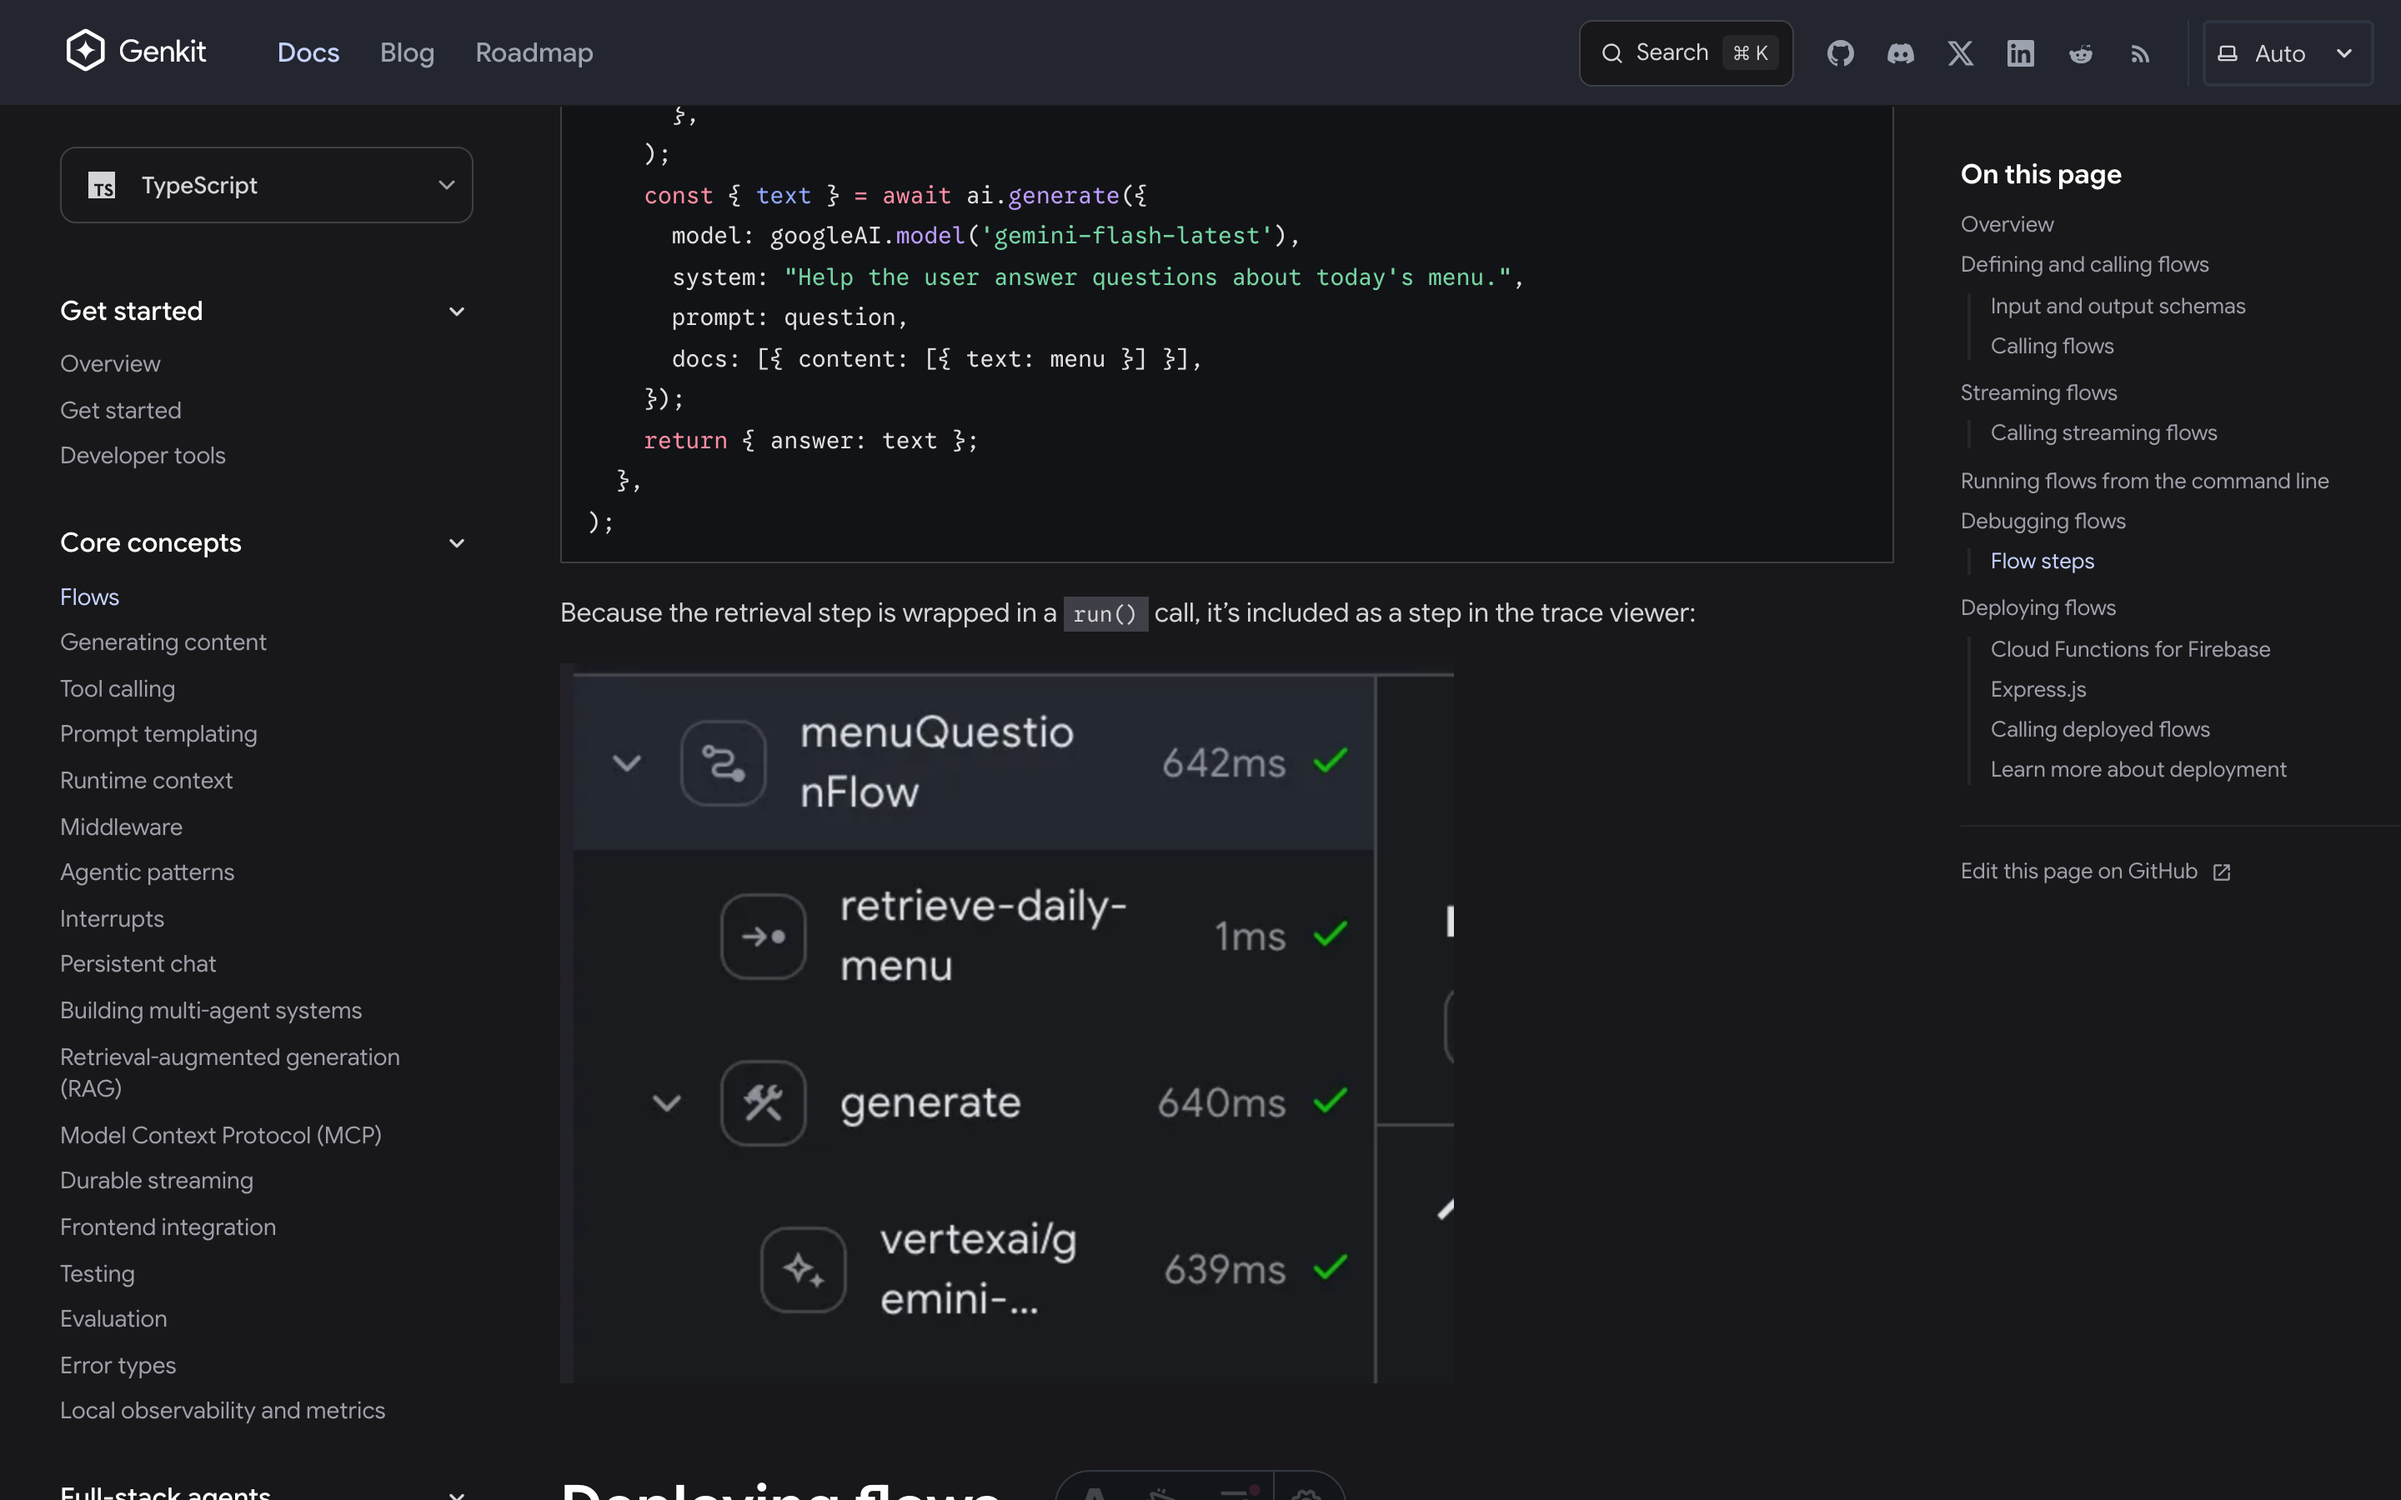
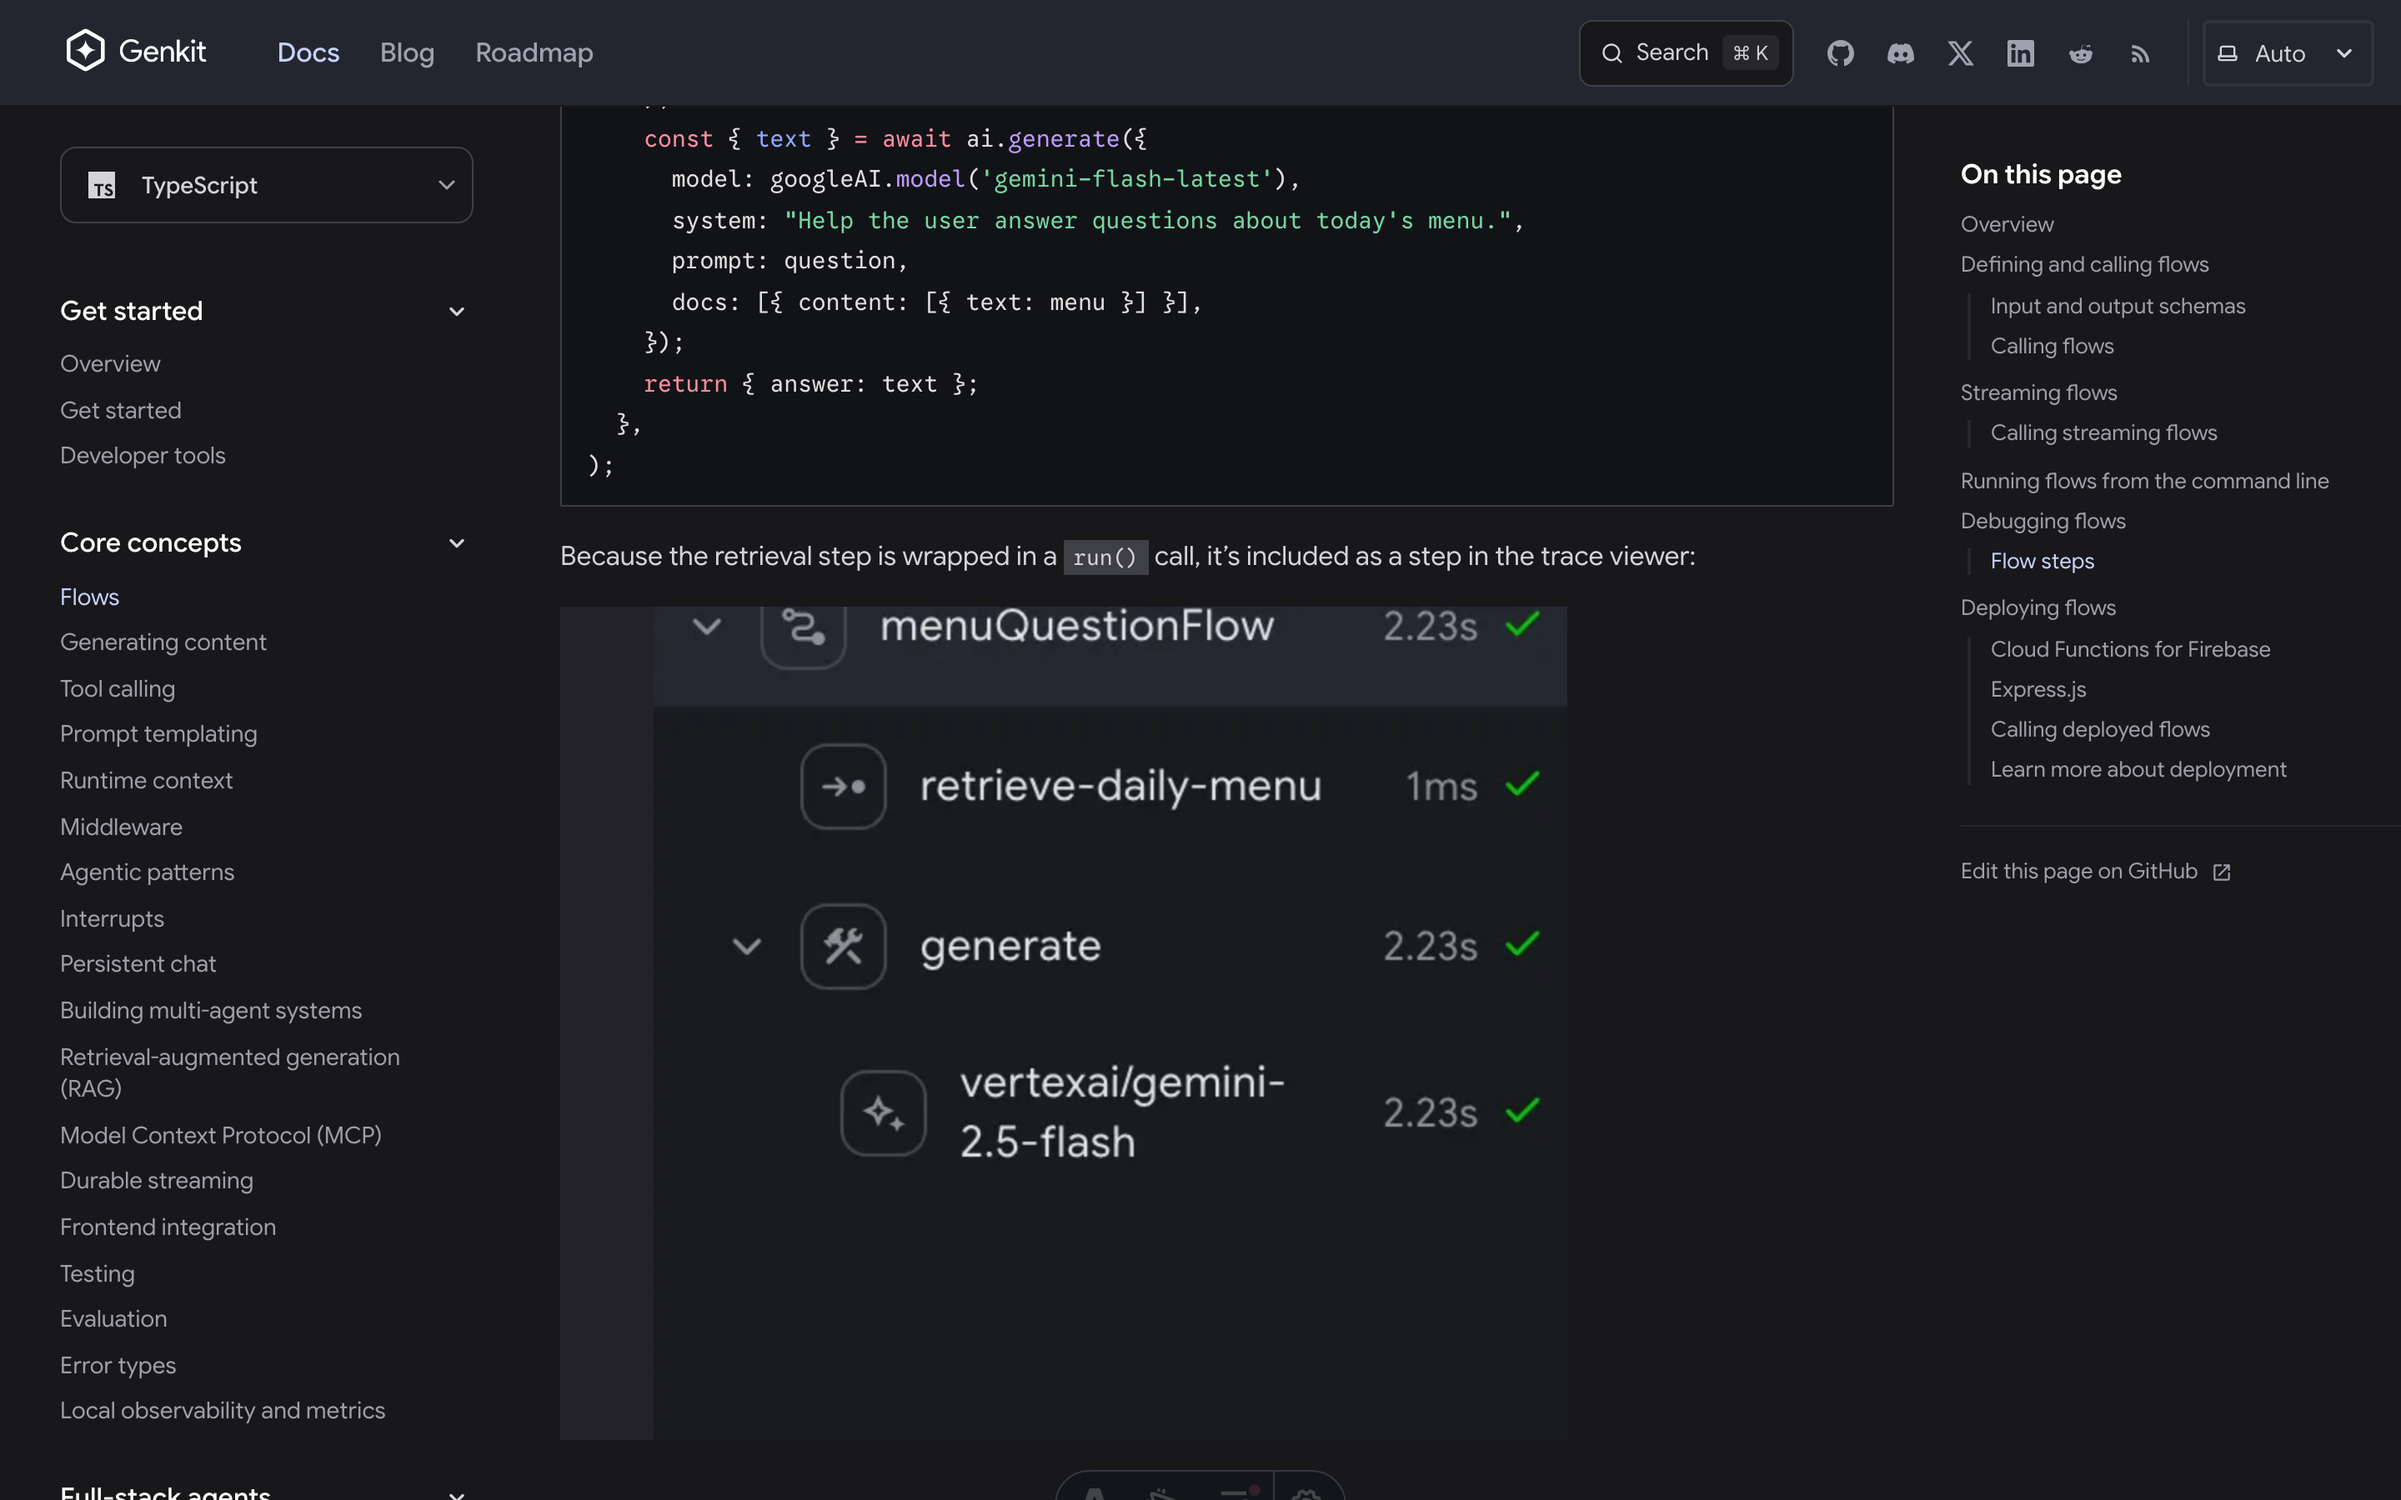
fix(previews): update insitu runstep preview with cleanly cropped asset

diff --git a/capture.py b/capture.py
@@ -124,7 +124,7 @@ def run_capture(base_url: str, docsite_url: str, out_dir: Path, python_bin: str)
         print("  ✓ inspect.png")
         p_insp.close()
 
-        # 4. Runstep
+        # 4. Runstep (Clean post-crop of trace tree with zero right panel debris)
         p_step = new_page()
         p_step.goto(f"{base_url}/traces", wait_until="domcontentloaded")
         p_step.get_by_text("Traces").first.wait_for(timeout=15000)
@@ -134,8 +134,9 @@ def run_capture(base_url: str, docsite_url: str, out_dir: Path, python_bin: str)
             q_row.click()
             p_step.wait_for_timeout(1000)
         hide_no_app(p_step)
-        p_step.screenshot(path=str(out_dir / "runstep.png"))
-        print("  ✓ runstep.png")
+        clip_tree = {"x": 272, "y": 74, "width": 302, "height": 250}
+        p_step.screenshot(path=str(out_dir / "runstep.png"), clip=clip_tree)
+        print("  ✓ runstep.png (clean post-crop)")
         p_step.close()
 
         # 5. Model Runner
@@ -261,7 +262,6 @@ def capture_insitu_views(docsite_url: str, insitu_dir: Path):
         if img.count():
             img.scroll_into_view_if_needed()
             time.sleep(0.5)
-            # Scroll up slightly so surrounding context is visible
             page.evaluate("window.scrollBy(0, -120)")
             time.sleep(0.5)
             page.screenshot(path=str(insitu_dir / "insitu_tool_calling_loop.png"))
